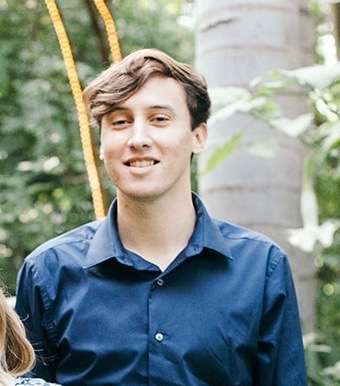
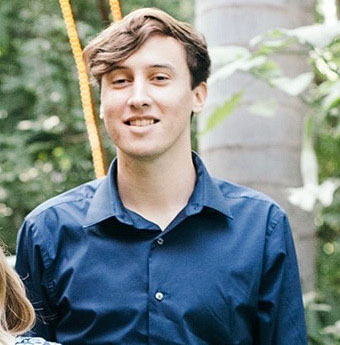
about us done

diff --git a/about.html b/about.html
@@ -55,7 +55,62 @@ EMAIL: valdivit@uci.edu
     <div class="container">
 
 
+<h3 id="aboutus">About Us</h3>
+        
+<div class = "row"> 
 
+    <div class = "col-md-4 col-sm-6">
+            <figure>
+                <img src=./images/nicolette.jpg alt = "Nicolette" class="us">
+                    <figcaption>Nicolette Pamlenyi - CCO<br>4th year, Public Health Sciences major</figcaption>
+            </figure>
+    </div>
+        
+        
+    <div class = "col-md-4 col-sm-6">
+        <figure>
+            <img src=./images/james.jpg alt = "Nicolette" class="us">
+                <figcaption>James Ostergaard - CTO<br>4th year, Informatics major</figcaption>
+        </figure>
+    </div>
+        
+        
+    <div class = "col-md-4 col-sm-6">
+        <figure>
+            <img src=./images/kristen.jpeg alt = "Nicolette" class="us">
+                <figcaption>Kristen DeVore - CEO<br>4th year, Informatics major</figcaption>
+        </figure>
+    </div>
+        
+    <div class = "col-md-4 col-sm-6">
+        <figure>
+            <img src=./images/rutaba.jpg alt = "Nicolette" class="us">
+                <figcaption>Rutaba Khan - User and Content Researcher<br>4th year, Informatics major</figcaption>
+        </figure>
+    </div>
+    
+    <div class = "col-md-4 col-sm-6">
+        <figure>
+            <img src=./images/tyler.jpeg alt = "Nicolette" class="us">
+                <figcaption>Tyler Valdivieso - Website Lead<br>4th year, Informatics major</figcaption>
+        </figure>
+    </div>
+    
+    <div class = "col-md-4 col-sm-6">
+        <figure>
+            <img src=./images/sharon.jpg alt = "Nicolette" class="us">
+                <figcaption>Sharon Chen - User and Content Researcher<br>3rd year, Biological Sciences major</figcaption>
+        </figure>
+    </div>
+    
+</div>
+    
+
+    <p style="padding-top: 50px; text-align:center">
+        Our team is full of a variety of different individuals from all backgrounds, ranging from technical to medical. We are united by our passion and pursuit of availability of certified resources for college students, by college students. When we realized there was a need for a central hub of content containing verified information, we decided to approach the problem in a way we could help. Healthful.info is a website application in order to help students, specifically at UCI, find information necessary in case of a medical emergency. Through our non-profit, no ad website, we aim to integrate medical information clearly and create more community awareness among college campuses. We aim to help students who are in both emergency and non-emergency circumstances.
+    </p>
+
+    
     </div>
 
 
@@ -64,42 +119,7 @@ EMAIL: valdivit@uci.edu
 <script src="https://cdnjs.cloudflare.com/ajax/libs/popper.js/1.14.7/umd/popper.min.js" integrity="sha384-UO2eT0CpHqdSJQ6hJty5KVphtPhzWj9WO1clHTMGa3JDZwrnQq4sF86dIHNDz0W1" crossorigin="anonymous"></script>
 <script src="https://stackpath.bootstrapcdn.com/bootstrap/4.3.1/js/bootstrap.min.js" integrity="sha384-JjSmVgyd0p3pXB1rRibZUAYoIIy6OrQ6VrjIEaFf/nJGzIxFDsf4x0xIM+B07jRM" crossorigin="anonymous"></script>
 </body>
-<p>
-Our team is full of a variety of different individuals from all backgrounds, ranging from technical to medical. We are united by our passion and pursuit of availability of certified resources for college students, by college students. When we realized there was a need for a central hub of content containing verified information, we decided to approach the problem in a way we could help. Healthful.info is a website application in order to help students, specifically at UCI, find information necessary in case of a medical emergency. Through our non-profit, no ad website, we aim to integrate medical information clearly and create more community awareness among college campuses. We aim to help students who are in both emergency and non-emergency circumstances.
-</p>
-<h3>Who we are</h3>
-<p>
-  Rutaba Khan - User and Content Researcher
-  <br/>
-  <img class="pic" src="./images/rutaba.jpg">
-  4th year, Informatics major
-  <br/>
-  Nicolette Pamlenyi - CCO
-  <br/>
-  <img class="pic" src="./images/nicolette.jpg">
-  4th year, Public Health Sciences major
-  <br/>
-  Sharon Chen - User and Content Researcher
-  <br/>
-  <img class="pic" src="./images/sharon.jpg">
-  3rd year, Biological Sciences major
-  <br/>
-  Kristen DeVore - CEO
-  <br/>
-  <img class="pic" src="./images/kristen.jpeg">
-  4th year, Informatics major
-  <br/>
-  Tyler Valdivieso - Website Lead
-  <br/>
-    <img class="pic" src="./images/tyler.jpeg">
-  4th year, Informatics major
-  <br/>
-  James Ostergaard - CTO
-  <br/>
-  <img class="pic" src="./images/james.jpg">
-  4th year, Informatics major
-  <br/>
-</p>
+
 
 <footer>
     Irvine, CA

diff --git a/index.html b/index.html
@@ -52,7 +52,7 @@ EMAIL: valdivit@uci.edu
     </ul>
     </nav>
     <div class="container">
-      <h1>Our Solution</h1>
+      <h1 style="padding-top:25px;">Our Solution</h1>
     </div>
     <div class="solution">
       <a href="./cpr.html"><img src=./images/cpr.jpg class="sol"></a>
@@ -60,16 +60,10 @@ EMAIL: valdivit@uci.edu
       <a href="./anxiety.html"><img src=./images/anxiety.jpg class="sol"></a
     </div>
     <div class="container">
-      <h1>Built and Maintained by the Team at Healthful</h1>
-      <h2>Our Mission</h2>
+      <h1 style="padding-top:25px;">Built and Maintained by the Team at Healthful</h1>
+      <h2 style="padding-top:25px;">Our Mission</h2>
       <p>
-        Problem Statement
-        <br/>
-        <br/>
       The need to access medical reference information is mostly a low priority, but when emergencies happen, it becomes a high priority. Several emergencies arise among college students in which they are often unprepared or have many unanswered questions.  When this occurs, many students use Google to find medical reference information, and that is a process which is not always reliable or accessible. Often, the top Google search result is a promoted website that may provide you with misleading information. If an individual does find a source of information, it will most likely contain pop-up ads and privacy agreements that disrupt the flow of their search, and prevent a fast, accurate result. Another common source of medical reference information is YouTube, which provides many guided videos for emergency response actions such as CPR. However, YouTube runs a 30 second ad before playing the video, and for an individual in an emergency situation, these 30 seconds are critical. Furthermore, college students are faced with an uproar of stress, peer pressure, and a new environment which can inevitably affect their mental health and wellbeing. When faced with these circumstances, many young adults are lost- both internally and through the web.
-      <br/>
-      <br/>
-      Significance
       <br/>
       <br/>
       Although medical and wellness information should be common knowledge for every student, unfortunately the utilization of this information is not as easily accessed nor highly prioritized as it should be. There are common emergencies and/or health issues college students face, and in the instance of an emergency, waiting 15 seconds for an ad on Youtube or chaotically searching Google can be ultimately life-threatening. By creating a non-profit hub of credible knowledge that eliminates ads and integrates medical information in a clear, compact form could both aid people during emergencies while also allowing more community awareness among college campuses. This website could allow students to feel comfortable in their situation knowing they are not only ones facing these issues, but more profoundly, this hub of medical knowledge could aid students in both emergency and non-emergency circumstances.

diff --git a/style.css b/style.css
@@ -7,7 +7,7 @@
 
 nav{
     margin-top: 0;
-    background-color: var(--background);
+    background-color: #969696;
 }
 
 .nav-link{
@@ -15,7 +15,7 @@ nav{
 }
 
 .nav-link:hover{
-    color: var(--white);
+    color: #dbdbdb;
 }
 
 #logo{
@@ -29,6 +29,22 @@ nav{
 
 body{
     background-color: var(--background);
+}
+
+#aboutus{
+    padding: 15px;
+    text-align: center;
+}
+      
+.us{
+    width: 60%;
+    display: block;
+    margin: 0 auto;
+}
+      
+figcaption{
+    color: white;
+    text-align: center;
 }
 
 h1{
@@ -69,7 +85,7 @@ p{
 
 .dropdown-menu{
   color: var(--white);
-    background-color: var(--background);
+    background-color: #969696;
 }
       
 .dropdown-item{
@@ -77,7 +93,7 @@ p{
 }
 
 .dropdown-item:hover{
-    background-color: var(--background);
+    background-color: #c1c1c1;
     color: var(--white);
 }
 
@@ -96,4 +112,5 @@ p{
   margin-left: 6%;
   position: relative;
 }
+      
       
